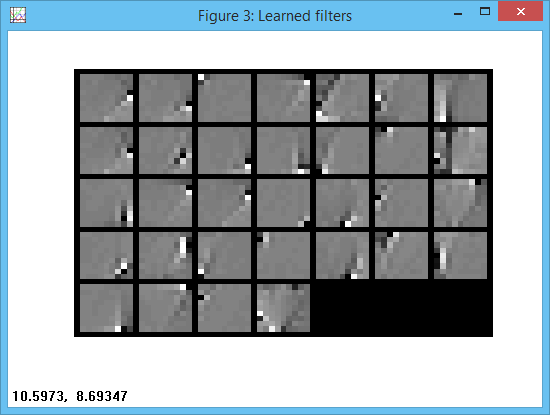
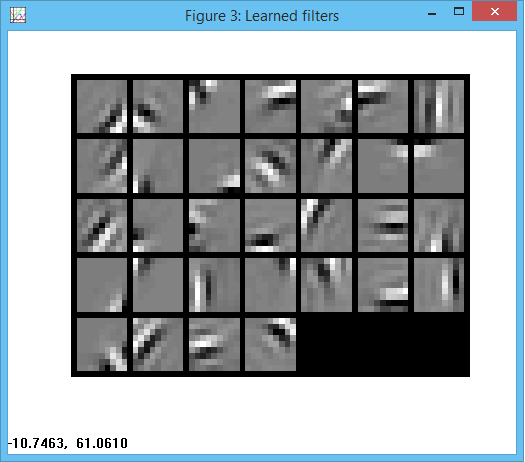
STL exercise Train Accuracy: 100.000000% Test Accuracy: 97.658730% ALMOST there. convolution/pool/softmax code needs review?

Changed region(s): [[0.1219, 0.1446, 0.9143, 0.8386], [0.0, 0.0, 1.0, 1.0]]

diff --git a/stl/stlExercise.m b/stl/stlExercise.m
@@ -14,7 +14,7 @@
 
 clear all; 
 close all;
-%tstart = tic;
+tstart = tic;
 tElapsed = 0;
 
 
@@ -27,7 +27,7 @@ imgSize = 28;
 global params;
 params.patchWidth=9;           % width of a patch
 params.n=params.patchWidth^2;   % dimensionality of input to RICA
-params.lambda = 0.0005;   % sparsity cost
+params.lambda = 0.005;   % sparsity cost
 params.numFeatures = 32; % number of filter banks to learn
 params.epsilon = 1e-2;   
 params.DEBUG = false;
@@ -47,7 +47,7 @@ else
     numPatches = 200000; % 200000 for production; 20000 can run in ~2.5 min
     fractionUnlabeled = 5/6;
 end
-zcaEpsilon = 0.1; % 1e-4 is almost CERTAINLY wrong
+zcaEpsilon = 1e-4; % red herring! ZCA-whitened patches look FINE - and converged in small-eps direction
 
 
 
@@ -113,6 +113,7 @@ if isOctave()
     patches = samplePatches([unlabeledData,trainData],params.patchWidth,numPatches);
 else
     patches = samplePatches(unlabeledData, params.patchWidth, numPatches); % horzcat JUST too big for 32-bit MATLAB
+    clear mnistData; % enough to allow double precision globally?
 end
 
 %configure minFunc
@@ -129,10 +130,12 @@ options.outputFcn = @showBases;
 %  You will need to whitened the patches with the zca2 function 
 %  then call minFunc with the softICACost function as seen in the RICA exercise.
     %%% MY CODE HERE %%% - copy/pasted from runSoftICA.m....(too short...)
+    
+    % aha, should you zca-whiten the patches, or ALL IMAGES??
+        % i guess it's the patches, since W *= V dimensions wouldn't match otherwise...
+    
     % Apply ZCA. pca_gen.m: epsilon = 1e-1; zca2.m: epsilon = 1e-4...
     [x, U, S, V] = zca2(patches, zcaEpsilon); % orthonormal ICA requires epsilon = 0, but RICA doesn't??
-    
-    
     % I actually think the data look BLURRIER after ZCA(1e-4)
 
     % sanity check: visualize patches before/after ZCA whitening
@@ -144,16 +147,14 @@ options.outputFcn = @showBases;
         figure('name', 'Raw patches');
         display_network(patches(:, patchesToVisualize));
     end
-    %assert(false, 'Learned filters overwrite patches...') % matlab only?
-
-    %assert(false, 'here to analyze S')
     
-    if ~isOctave(); clear patches; end
-        % zca2(patches, 10) gave 98% test accuracy and 100% training accuracy... just a lucky fluctuation?
+    if ~isOctave(); 
+        clear patches; 
+    end
     
     % Normalize each patch - should i not do this?? still don't really understand RICA...
-    m = sqrt(sum(x.^2) + (1e-8)); 
-    x = bsxfunwrap(@rdivide,x,m);
+    %m = sqrt(sum(x.^2) + (1e-8)); 
+    %x = bsxfunwrap(@rdivide,x,m);
 
     if isOctave()
         figure('name', 'ZCA-whitened patches');

diff --git a/rica/runSoftICA.m b/rica/runSoftICA.m
@@ -14,12 +14,12 @@ if DEBUG
     params.patchWidth = 3;
     params.numFeatures = 5;
 else    
-    params.m=20000;%10000;% num patches
+    params.m=10000;% num patches
     params.patchWidth=9;% width of a patch
-    params.numFeatures = 32;%50 % number of filter banks to learn
+    params.numFeatures = 50; % number of filter banks to learn
 end
 params.n=params.patchWidth^2; % dimensionality of input to RICA
-params.lambda = 0.005;%;%0.0005; % sparsity cost
+params.lambda = 0.005;%;%default 0.0005; % sparsity cost
 params.epsilon = 1e-2;% default 1e-2; epsilon to use in square-sqrt nonlinearity [for sparsity]
 params.normeps = 1e-5; % default 1e-5; for l2rowscaled...
 step3_eps = 1e-8; % default 1e-8; for post-ZCA normalization
@@ -90,8 +90,8 @@ end
 % Step 3) Normalize each patch. Each patch should be normalized as     % PCA section: variance normalization is NOT needed??
 % x / ||x||_2 where x is the vector representation of the patch 
 x = patches;
-% m = sqrt(sum(patches.^2) + (step3_eps));
-% x = bsxfunwrap(@rdivide,patches,m);
+%m = sqrt(sum(patches.^2) + (step3_eps));
+%x = bsxfunwrap(@rdivide,patches,m);
 
 
 
